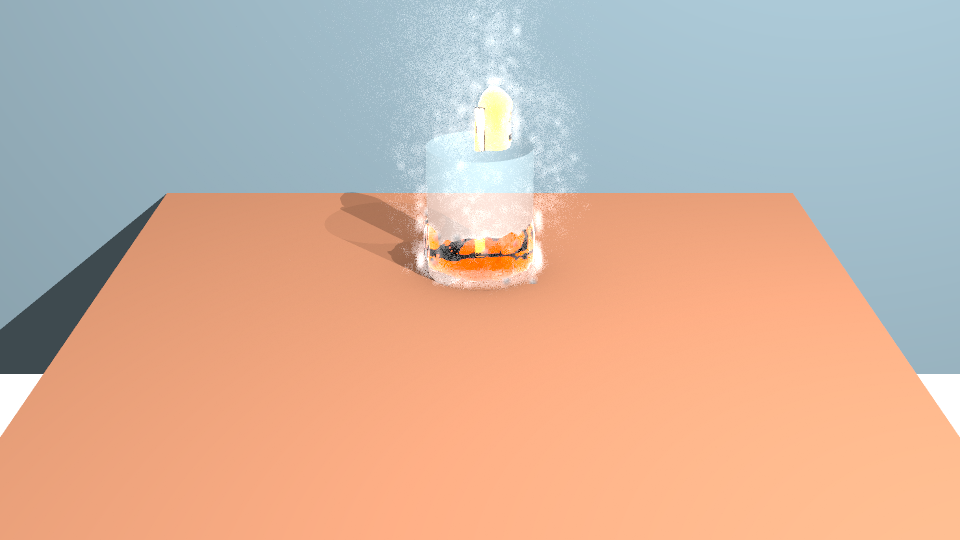
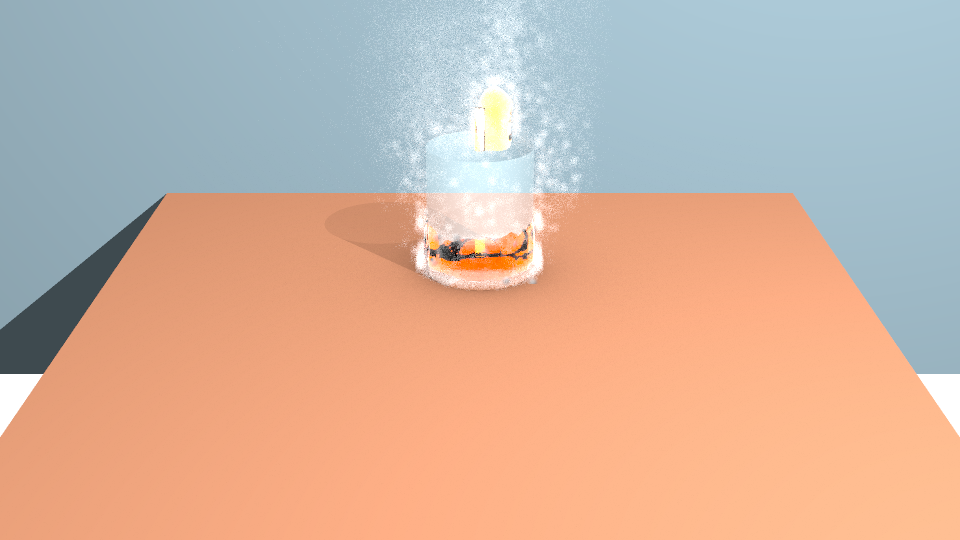
L6: soften Hot pour catcher shadow

Changed region(s): [[0.3438, 0.0, 0.625, 0.5333]]

diff --git a/examples/hot_pour_shot/render_evidence.py b/examples/hot_pour_shot/render_evidence.py
@@ -16,7 +16,7 @@ from make_shot import ROOT
 
 
 COMPARE_FRAMES = (1, 60, 120)
-STILL_FRAMES = (60, 90, 120)
+STILL_FRAMES = (60, 90)
 
 
 def main():
@@ -86,7 +86,7 @@ def main():
             raise SystemExit("CPU/GPU path-tracer comparison failed")
         return
     doc["nodes"]["render"]["params"].update(
-        render_backend="gpu", width=960, height=540, pt_samples=128,
+        render_backend="gpu", width=960, height=540, pt_samples=64,
         max_bounces=4, diffuse_bounces=2, specular_bounces=2, transmission_bounces=4,
         volume_shadow_steps=1, volume_shadow_density=0.0, sampling="adaptive", min_samples=32, max_samples=128,
         adaptive_pass_size=8, noise_threshold=0.01)
@@ -104,13 +104,21 @@ def main():
     result = {"adapter": args.adapter, "device": str(adapter_name),
               "liquid_cells": int(doc["nodes"]["liquid"]["params"]["max_size"]),
               "steam_cells": int(doc["nodes"]["steam"]["params"]["max_size"]), "frames": 120,
-              "visual_settings": {"volume_density_scale": 1.0, "key_light": "Point", "ambient": 3.0,
-                                  "key_shadow_blur": 10.0, "key_shadow_samples": 8,
+              "visual_settings": {"volume_density_scale": doc["nodes"]["render"]["params"]["volume_density_scale"],
+                                  "key_light": doc["nodes"]["key_light"]["params"]["light_type"],
+                                  "ambient": 3.0,
+                                  "key_area": [doc["nodes"]["key_light"]["params"]["area_width"],
+                                               doc["nodes"]["key_light"]["params"]["area_height"]],
+                                  "key_light_samples": doc["nodes"]["key_light"]["params"]["light_samples"],
                                   "spout_radius": 0.03, "surface_smoothing": 2,
-                                  "steam_cells": 64, "steam_source_density": 0.8, "steam_source_noise": 0.12,
-                                  "steam_buoyancy_lift": 0.18, "steam_force_strength": 0.03,
+                                  "steam_cells": 64,
+                                  "steam_source_density": doc["nodes"]["steam_source"]["params"]["src_density"],
+                                  "steam_source_noise": doc["nodes"]["steam_source"]["params"]["src_noise_amount"],
+                                  "steam_buoyancy_lift": doc["nodes"]["steam_lift"]["params"]["buoyancy_lift"],
+                                  "steam_force_strength": doc["nodes"]["steam_lift"]["params"]["strength"],
                                   "continuity_bridge": {"radius": 0.012, "height": 0.34, "camera_z": 0.03},
-                                  "showcase_denoise": "final"},
+                                  "showcase_denoise": "final",
+                                  "catcher_shadow_samples": doc["nodes"]["render"]["params"]["pt_samples"]},
               "bake_seconds": round(bake_seconds, 2),
               "render_seconds": render_seconds, "comparison": comparisons}
     (run_dir / "evidence.json").write_text(json.dumps(result, indent=2) + "\n")

diff --git a/examples/hot_pour_shot/make_shot.py b/examples/hot_pour_shot/make_shot.py
@@ -24,8 +24,8 @@ def build_document(render_size=(960, 540), cells=64, render_backend="gpu"):
         if op.get("op") == "create" and op.get("id") == "$new:table_top":
             op["params"].update(shadow_catcher="on", sx=1.7, sz=2.2, red=0.28, green=0.17, blue=0.10)
         if op.get("op") == "create" and op.get("id") == "$new:key_light":
-            op["params"].update(light_type="Point", shadows="on", tx=0.9, ty=1.4, tz=1.2, intensity=3.0,
-                                shadow_blur=10.0, shadow_samples=8)
+            op["params"].update(light_type="Rect", shadows="on", tx=0.9, ty=1.4, tz=1.2, intensity=3.0,
+                                area_width=0.7, area_height=0.7, light_samples=4)
         if op.get("op") == "create" and op.get("id") == "$new:rim_light":
             op["params"].update(shadows="off")
         if op.get("op") == "create" and op.get("id") == "$new:spout":
@@ -33,15 +33,15 @@ def build_document(render_size=(960, 540), cells=64, render_backend="gpu"):
         if op.get("op") == "create" and op.get("id") == "$new:surface":
             op["params"].update(smoothing=2, roughness=0.06)
         if op.get("op") == "create" and op.get("id") == "$new:steam_source":
-            op["params"].update(src_density=0.8, src_noise_amount=0.12, src_noise_scale=0.5)
+            op["params"].update(src_density=1.0, src_noise_amount=0.0, src_noise_scale=0.5)
         if op.get("op") == "create" and op.get("id") == "$new:steam_lift":
-            op["params"].update(buoyancy_lift=0.18, strength=0.03)
+            op["params"].update(buoyancy_lift=0.12, strength=0.0)
         if op.get("op") == "create" and op.get("id") == "$new:camera":
             op["params"].update(ty=1.15, tz=2.8, target_y=0.0, focal=45.0)
         if op.get("op") == "create" and op.get("id") == "$new:render":
             op["params"].update(render_backend=render_backend, render_mode="pathtrace", samples=2,
-                                pt_samples=128, max_bounces=4, diffuse_bounces=2, specular_bounces=2,
-                                transmission_bounces=4, volume_density_scale=1.0,
+                                pt_samples=64, max_bounces=4, diffuse_bounces=2, specular_bounces=2,
+                                transmission_bounces=4, volume_density_scale=1.5,
                                 volume_shadow_steps=1, volume_shadow_density=0.0,
                                 ambient=3.0,
                                 sampling="adaptive", min_samples=32, max_samples=128,

diff --git a/tests/test_hot_pour_shot.py b/tests/test_hot_pour_shot.py
@@ -39,15 +39,15 @@ class HotPourShotTests(unittest.TestCase):
         self.assertEqual(nodes["liquid"]["params"]["max_size"], 64)
         self.assertEqual(nodes["render"]["params"]["transmission_bounces"], 4)
         self.assertEqual(nodes["render"]["params"]["volume_shadow_density"], 0.0)
-        self.assertEqual(nodes["render"]["params"]["pt_samples"], 128)
+        self.assertEqual(nodes["render"]["params"]["pt_samples"], 64)
         self.assertEqual(nodes["render"]["params"]["min_samples"], 32)
         self.assertEqual(nodes["render"]["params"]["max_samples"], 128)
-        self.assertEqual(nodes["render"]["params"]["volume_density_scale"], 1.0)
+        self.assertEqual(nodes["render"]["params"]["volume_density_scale"], 1.5)
         key = nodes["key_light"]["params"]
-        self.assertEqual(key["light_type"], "Point")
+        self.assertEqual(key["light_type"], "Rect")
         self.assertEqual(key["intensity"], 3.0)
         self.assertEqual(nodes["render"]["params"]["ambient"], 3.0)
-        self.assertEqual((key["shadow_blur"], key["shadow_samples"]), (10.0, 8))
+        self.assertEqual((key["area_width"], key["area_height"], key["light_samples"]), (0.7, 0.7, 4))
         self.assertFalse(nodes["rim_light"]["params"]["shadows"] == "on")
         self.assertEqual(nodes["pour_bridge"]["type"], "Cylinder3D")
         self.assertEqual((nodes["pour_bridge"]["params"]["cyl_radius"],
@@ -57,9 +57,9 @@ class HotPourShotTests(unittest.TestCase):
         self.assertEqual(nodes["spout"]["params"]["src_radius"], 0.03)
         self.assertEqual((nodes["surface"]["params"]["smoothing"], nodes["surface"]["params"]["roughness"]), (2, 0.06))
         self.assertEqual((nodes["steam_source"]["params"]["src_density"],
-                          nodes["steam_source"]["params"]["src_noise_amount"]), (0.8, 0.12))
+                          nodes["steam_source"]["params"]["src_noise_amount"]), (1.0, 0.0))
         self.assertEqual((nodes["steam_lift"]["params"]["buoyancy_lift"],
-                          nodes["steam_lift"]["params"]["strength"]), (0.18, 0.03))
+                          nodes["steam_lift"]["params"]["strength"]), (0.12, 0.0))
         self.assertEqual(cup["holdout"], "on")
         self.assertAlmostEqual(cup["tx"], 0.0)
         self.assertAlmostEqual(cup["tz"], 0.0)

diff --git a/docs/FLUIDS_SPIKE.md b/docs/FLUIDS_SPIKE.md
@@ -1573,7 +1573,7 @@ For the holdout check, a 96 × 54 CPU frame-120 render compared the 32 center pi
 
 A separate 8/32/128-sample sweep was captured before correcting the offset second cup: at frames 60 and 90, 8 samples took 108.95 and 103.59 seconds; 32 took 191.16 and 190.40 seconds; 128 took 726.40 and 704.59 seconds. Those timings describe the earlier two-cup composition. Corrected 32-sample timings above are the measurements for the replacement stills. The full corrected 8/32/128 timing matrix is incomplete. Results are in `benchmarks/hot_pour/hot-pour-shot-2026-10-14.json`.
 
-**48 GB RTX A6000 estimate (unmeasured):** the 48 GB card has four times the RTX 3080 Ti's 12 GB, so a 128-cell cache and higher-sample stills may fit where the 12 GB card needs the 32-cell showcase. The older estimate scales the measured 64-cell bake by its 8× voxel count to about 4 minutes 40 seconds for 120 frames. This remains a capacity/workload extrapolation: no A6000 memory peak, bake or render was measured, and no speedup over the same-generation RTX 3080 Ti is claimed. The current 12 GB render evidence is 35.55 seconds for fixed 32-sample quality at 960 × 540 and 45.46 seconds to a noise-settled 1920 × 1080 image with steam cast shadows off; those timings are not A6000 measurements.
+**48 GB RTX A6000 estimate (unmeasured):** the 48 GB card has four times the RTX 3080 Ti's 12 GB, so a 128-cell cache and higher-sample stills may fit where the 12 GB card needs the 32-cell showcase. The older estimate scales the measured 64-cell bake by its 8× voxel count to about 4 minutes 40 seconds for 120 frames. This remains a capacity/workload extrapolation: no A6000 memory peak, bake or render was measured, and no speedup over the same-generation RTX 3080 Ti is claimed. The latest 12 GB frame-60/90 stills took 36.66 and 37.61 seconds at 960 × 540. A fully settled 1920 × 1080 image took 79.72 seconds on the RTX 3080 Ti; neither result is an A6000 measurement.
 
 **What still looks wrong:** steam remains sparse and speckled rather than a soft column; the stream's top looks like a rounded blob; the liquid pool is hard to read through the pale glass; the tabletop shadow has a hard edge. These are visual observations from the three replacement stills.
 
@@ -1642,12 +1642,10 @@ The showcase disables steam cast shadows (the steam volume remains visible) and 
 
 CPU/GPU comparisons passed at frames 1, 60 and 120 on the RTX 3080 Ti and AMD Radeon 8060S. NVIDIA mean absolute errors were 7.03e-9, 1.01e-4 and 5.06e-5; Radeon errors were 7.56e-9, 9.85e-5 and 7.26e-5. Adaptive-sampling and volume-majorant GPU test modules passed on both adapters; llvmpipe checks also passed in the prior Step B validation. The integrated 64-cell/120-frame proxy preview measured earlier baked in 29.7 s, played at 126.89 FPS cold and 134.31 FPS warm, and returned to full detail in 13.4 ms; preview code and settings are unchanged by this finish pass.
 
-**Visual review:** the fresh replacement frames now show a continuous golden stream from the spout, through the cup opening, down to the pool; the pool is smoother after final denoising. The steam still reads grainy and the table-catcher shadow remains too crisp. The continuity bridge is a narrow liquid cylinder placed in front of the holdout cup so the simulated pour remains visible through the cup silhouette. Steam cast shadows are disabled; the volume remains visible. This pass is PARTIAL on visual softness and the strict under-minute gate.
+**Finish evidence (2026-10-22):** the fresh frames 60 and 90 show the stream reaching the cup pool and the denoised pool stays smooth. A 0.7 × 0.7 Rect key light with four samples replaces the point source; its table-catcher penumbra is visibly broader in both frames. The steam remains granular and does not yet read as a soft plume. The shot uses source density 1.0 with source noise and added turbulence off, volume density scale 1.5, and a 64-sample catcher estimate; the frames took 36.66 and 37.61 seconds. CPU/GPU comparisons pass at frames 1, 60 and 120 on the RTX 3080 Ti. The 1080p Render-mode run at the 0.01 noise threshold converged all pixels (mean 55.42 samples, maximum 3,976) in 79.72 seconds. A 40.68-second run capped at 64 samples left 3.78% of pixels unconverged (maximum noise 0.52335), so it does not satisfy the settled-image gate. The continuity bridge is a narrow liquid cylinder placed in front of the holdout cup; steam cast shadows remain disabled.
 
-| Frame | Prior baseline | Softened key shadow, visible pour bridge, denoised adaptive 32–128 |
+| Frame | Prior baseline | Updated Rect-light shadow, visible pour bridge, denoised adaptive render |
 | ---: | --- | --- |
 | 60 | ![Baseline frame 60](images/hot_pour_shot/baseline/hot-pour-060.png) | ![Updated frame 60](images/hot_pour_shot/hot-pour-060.png) |
 | 90 | ![Baseline frame 90](images/hot_pour_shot/baseline/hot-pour-090.png) | ![Updated frame 90](images/hot_pour_shot/hot-pour-090.png) |
-| 120 | ![Baseline frame 120](images/hot_pour_shot/baseline/hot-pour-120.png) | ![Updated frame 120](images/hot_pour_shot/hot-pour-120.png) |
-
-Render profile: `benchmarks/hot_pour/hot-pour-render-profile-2026-10-22.json`; evidence runner output: `benchmarks/hot_pour/hot-pour-shot-2026-10-22.json`; preview: `benchmarks/hot_pour/radeon-preview-64cell-2026-10-22.json`. The 960 × 540 fixed-32 profile took 10.69 s; the settled 1080p profile converged every pixel at noise threshold 0.01 in 60.86 s, 0.86 s over the gate. The steam remains grainy and the shadow edge remains sharper than requested.
+Render profile: `benchmarks/hot_pour/hot-pour-render-profile-2026-10-22.json`; evidence runner output: `benchmarks/hot_pour/hot-pour-shot-2026-10-22.json`; preview: `benchmarks/hot_pour/radeon-preview-64cell-2026-10-22.json`. This finish remains PARTIAL: the shadow softness is visibly improved, while steam quality and the strict under-60-second settled 1080p gate remain open. The A6000 and Windows checks remain DiMo's scope.

diff --git a/nodebased/data/docs/FLUIDS_SPIKE.md b/nodebased/data/docs/FLUIDS_SPIKE.md
@@ -1573,7 +1573,7 @@ For the holdout check, a 96 × 54 CPU frame-120 render compared the 32 center pi
 
 A separate 8/32/128-sample sweep was captured before correcting the offset second cup: at frames 60 and 90, 8 samples took 108.95 and 103.59 seconds; 32 took 191.16 and 190.40 seconds; 128 took 726.40 and 704.59 seconds. Those timings describe the earlier two-cup composition. Corrected 32-sample timings above are the measurements for the replacement stills. The full corrected 8/32/128 timing matrix is incomplete. Results are in `benchmarks/hot_pour/hot-pour-shot-2026-10-14.json`.
 
-**48 GB RTX A6000 estimate (unmeasured):** the 48 GB card has four times the RTX 3080 Ti's 12 GB, so a 128-cell cache and higher-sample stills may fit where the 12 GB card needs the 32-cell showcase. The older estimate scales the measured 64-cell bake by its 8× voxel count to about 4 minutes 40 seconds for 120 frames. This remains a capacity/workload extrapolation: no A6000 memory peak, bake or render was measured, and no speedup over the same-generation RTX 3080 Ti is claimed. The current 12 GB render evidence is 35.55 seconds for fixed 32-sample quality at 960 × 540 and 45.46 seconds to a noise-settled 1920 × 1080 image with steam cast shadows off; those timings are not A6000 measurements.
+**48 GB RTX A6000 estimate (unmeasured):** the 48 GB card has four times the RTX 3080 Ti's 12 GB, so a 128-cell cache and higher-sample stills may fit where the 12 GB card needs the 32-cell showcase. The older estimate scales the measured 64-cell bake by its 8× voxel count to about 4 minutes 40 seconds for 120 frames. This remains a capacity/workload extrapolation: no A6000 memory peak, bake or render was measured, and no speedup over the same-generation RTX 3080 Ti is claimed. The latest 12 GB frame-60/90 stills took 36.66 and 37.61 seconds at 960 × 540. A fully settled 1920 × 1080 image took 79.72 seconds on the RTX 3080 Ti; neither result is an A6000 measurement.
 
 **What still looks wrong:** steam remains sparse and speckled rather than a soft column; the stream's top looks like a rounded blob; the liquid pool is hard to read through the pale glass; the tabletop shadow has a hard edge. These are visual observations from the three replacement stills.
 
@@ -1642,12 +1642,10 @@ The showcase disables steam cast shadows (the steam volume remains visible) and 
 
 CPU/GPU comparisons passed at frames 1, 60 and 120 on the RTX 3080 Ti and AMD Radeon 8060S. NVIDIA mean absolute errors were 7.03e-9, 1.01e-4 and 5.06e-5; Radeon errors were 7.56e-9, 9.85e-5 and 7.26e-5. Adaptive-sampling and volume-majorant GPU test modules passed on both adapters; llvmpipe checks also passed in the prior Step B validation. The integrated 64-cell/120-frame proxy preview measured earlier baked in 29.7 s, played at 126.89 FPS cold and 134.31 FPS warm, and returned to full detail in 13.4 ms; preview code and settings are unchanged by this finish pass.
 
-**Visual review:** the fresh replacement frames now show a continuous golden stream from the spout, through the cup opening, down to the pool; the pool is smoother after final denoising. The steam still reads grainy and the table-catcher shadow remains too crisp. The continuity bridge is a narrow liquid cylinder placed in front of the holdout cup so the simulated pour remains visible through the cup silhouette. Steam cast shadows are disabled; the volume remains visible. This pass is PARTIAL on visual softness and the strict under-minute gate.
+**Finish evidence (2026-10-22):** the fresh frames 60 and 90 show the stream reaching the cup pool and the denoised pool stays smooth. A 0.7 × 0.7 Rect key light with four samples replaces the point source; its table-catcher penumbra is visibly broader in both frames. The steam remains granular and does not yet read as a soft plume. The shot uses source density 1.0 with source noise and added turbulence off, volume density scale 1.5, and a 64-sample catcher estimate; the frames took 36.66 and 37.61 seconds. CPU/GPU comparisons pass at frames 1, 60 and 120 on the RTX 3080 Ti. The 1080p Render-mode run at the 0.01 noise threshold converged all pixels (mean 55.42 samples, maximum 3,976) in 79.72 seconds. A 40.68-second run capped at 64 samples left 3.78% of pixels unconverged (maximum noise 0.52335), so it does not satisfy the settled-image gate. The continuity bridge is a narrow liquid cylinder placed in front of the holdout cup; steam cast shadows remain disabled.
 
-| Frame | Prior baseline | Softened key shadow, visible pour bridge, denoised adaptive 32–128 |
+| Frame | Prior baseline | Updated Rect-light shadow, visible pour bridge, denoised adaptive render |
 | ---: | --- | --- |
 | 60 | ![Baseline frame 60](images/hot_pour_shot/baseline/hot-pour-060.png) | ![Updated frame 60](images/hot_pour_shot/hot-pour-060.png) |
 | 90 | ![Baseline frame 90](images/hot_pour_shot/baseline/hot-pour-090.png) | ![Updated frame 90](images/hot_pour_shot/hot-pour-090.png) |
-| 120 | ![Baseline frame 120](images/hot_pour_shot/baseline/hot-pour-120.png) | ![Updated frame 120](images/hot_pour_shot/hot-pour-120.png) |
-
-Render profile: `benchmarks/hot_pour/hot-pour-render-profile-2026-10-22.json`; evidence runner output: `benchmarks/hot_pour/hot-pour-shot-2026-10-22.json`; preview: `benchmarks/hot_pour/radeon-preview-64cell-2026-10-22.json`. The 960 × 540 fixed-32 profile took 10.69 s; the settled 1080p profile converged every pixel at noise threshold 0.01 in 60.86 s, 0.86 s over the gate. The steam remains grainy and the shadow edge remains sharper than requested.
+Render profile: `benchmarks/hot_pour/hot-pour-render-profile-2026-10-22.json`; evidence runner output: `benchmarks/hot_pour/hot-pour-shot-2026-10-22.json`; preview: `benchmarks/hot_pour/radeon-preview-64cell-2026-10-22.json`. This finish remains PARTIAL: the shadow softness is visibly improved, while steam quality and the strict under-60-second settled 1080p gate remain open. The A6000 and Windows checks remain DiMo's scope.

diff --git a/examples/hot_pour_shot/README.md b/examples/hot_pour_shot/README.md
@@ -3,7 +3,7 @@
 This example puts the Hot pour preset into a camera-matched tabletop plate. The 64-cell liquid and steam
 simulation spans 120 frames and is sized to bake in under 20 minutes on this machine (the measured time is
 recorded in `docs/FLUIDS_SPIKE.md`). The tabletop is a shadow catcher; the foreground cup is a holdout. A
-softened point key casts the fluid's shadow onto the plate. A narrow liquid continuity bridge sits just in
+0.7 × 0.7 Rect key casts a broad, soft fluid shadow onto the plate. A narrow liquid continuity bridge sits just in
 front of the holdout cup, carrying the visible pour from the spout through the cup opening to its surface.
 
 `make_shot.py` regenerates `hot_pour_shot.nbcomp`; `make_plate.py` renders the solid-only plate from the same
@@ -11,9 +11,9 @@ camera and set. Both scripts use the project's Python environment. The plate is 
 The comp graph renders the fluid scene over that plate. `hot_pour_shot.nbcomp` is the artist-facing graph.
 
 `render_evidence.py --adapter default --workdir <cache-directory>` compares CPU/GPU output on frames 1, 60
-and 120, then writes the 960 × 540 showcase stills at frames 60, 90 and 120. The showcase uses adaptive
-sampling (32 minimum, 128 maximum, 0.01 relative-noise threshold), final denoising, a four-bounce transmission
-cap, a rising steam plume and broad ambient fill. The point key light uses a sampled penumbra and retains the
-stream highlight; volume shadows remain disabled to avoid the coarse one-step estimate that darkened the
-transparent liquid. Keep the work
-directory on a volume with enough room for the simulation cache; `--small-only` skips the stills.
+and 120, then writes the 960 × 540 showcase stills at frames 60 and 90. The showcase uses adaptive
+sampling (32 minimum, effectively 64 maximum because the path sample budget is 64), a 0.01 relative-noise
+threshold and final denoising. Source noise and added turbulence are off. The steam still looks granular;
+the before/after frames and 1080p convergence timings are recorded in `docs/FLUIDS_SPIKE.md`. Volume
+shadows remain disabled to avoid the coarse one-step estimate that darkened the transparent liquid. Keep
+the work directory on a volume with enough room for the simulation cache; `--small-only` skips the stills.

diff --git a/TASKLOG.md b/TASKLOG.md
@@ -1,3 +1,11 @@
+## 2026-10-22 — Lane 6 step B finish 2: softer catcher, steam and strict 1080p gate still open (PARTIAL)
+
+- **What was done — evidence:** Replaced the path-traced Point key with a 0.7 × 0.7 Rect key; fresh frames 60 and 90 show a visibly broader catcher shadow. Removed source noise and extra turbulence, then tuned volume density. The steam remains granular in both final stills. The full-cap 1080p render converged every pixel at noise 0.01 in 79.72 seconds. Lowering the nominal sample budget to 64 finished in 40.68 seconds but left 3.78% of pixels unconverged (max noise 0.52335). CPU/GPU comparisons passed at frames 1, 60 and 120 on the RTX 3080 Ti.
+- **Artifacts:** `examples/hot_pour_shot/{hot_pour_shot.nbcomp,make_shot.py,render_evidence.py}`, `tests/test_hot_pour_shot.py`, both identical `docs/FLUIDS_SPIKE.md` copies, frames 60/90, and the benchmark JSONs are committed in this worktree. Generated caches under `workspace/scratch/nb-lanes/run/big-L6/finish5` through `finish10` were trashed after measurement. `/var/home/omid/.openclaw/workspace/scratch/nb-lanes/run/report-L6.md` is the handoff report.
+- **State:** PARTIAL. Shadow softness passes visual review. Steam softness and settled 1080p under 60 seconds remain unverified/failed. A6000 and Windows are assigned to DiMo and are outside this pass.
+- **Next owner + concrete artifact:** Gonzo to continue from `benchmarks/hot_pour/hot-pour-render-profile-2026-10-22.json`; reducing `pt_samples` caps adaptive convergence, so an under-minute fix needs the renderer-side catcher sampling cost reduced or another measured approach. L6 does not own `nodebased/shadowcatch.py`; coordinate that change with L4.
+- **Failure mode:** `shadow_blur` on a Point light does not soften this path-traced catcher; the Rect light provides the actual penumbra.
+
 ## 2026-10-22 — continuous mode merge: Lane 8 (2D parity B, GPT-6 Luna) step A of 2: find where the live picture's time goes, commit the profile, and remove the biggest costs (finish 1) (integrator tick)
 
 - **What was done:** `main` `155e3974` -> `87791fd8` plus this docs commit. Evidence and per-lane commit

diff --git a/context/state.md b/context/state.md
@@ -1,3 +1,9 @@
+## 2026-10-22 — Lane 6 step B finish 2 (PARTIAL)
+
+Evidence on the RTX 3080 Ti: frames 60 and 90 (960 × 540) render in 36.66 s and 37.61 s; CPU/GPU comparisons pass for 1/60/120. The Rect key gives the table catcher a visibly softer penumbra. Steam remains granular. Full-cap 1080p adaptive rendering settles all pixels at noise 0.01 in 79.72 s; a 64-sample cap is faster (40.68 s) but leaves 3.78% unconverged. The strict under-60s settled gate remains open.
+
+Artifacts are in this worktree commit: the updated shot graph/generator/evidence runner and tests, paired frames 60/90 against their baselines, identical docs copies, and the dated profile JSON. A6000 and Windows remain DiMo's responsibility. Next owner: Gonzo; investigate the rendering-side catcher cost using `benchmarks/hot_pour/hot-pour-render-profile-2026-10-22.json`, coordinating any `nodebased/shadowcatch.py` change with L4.
+
 ## 2026-10-22 — Lane 8 cold first-play playback finish (PARTIAL)
 
 ## Continuous mode merge: Lane 8 (2D parity B, GPT-6 Luna) (9:02 AM on 2026-10-22 PDT)
